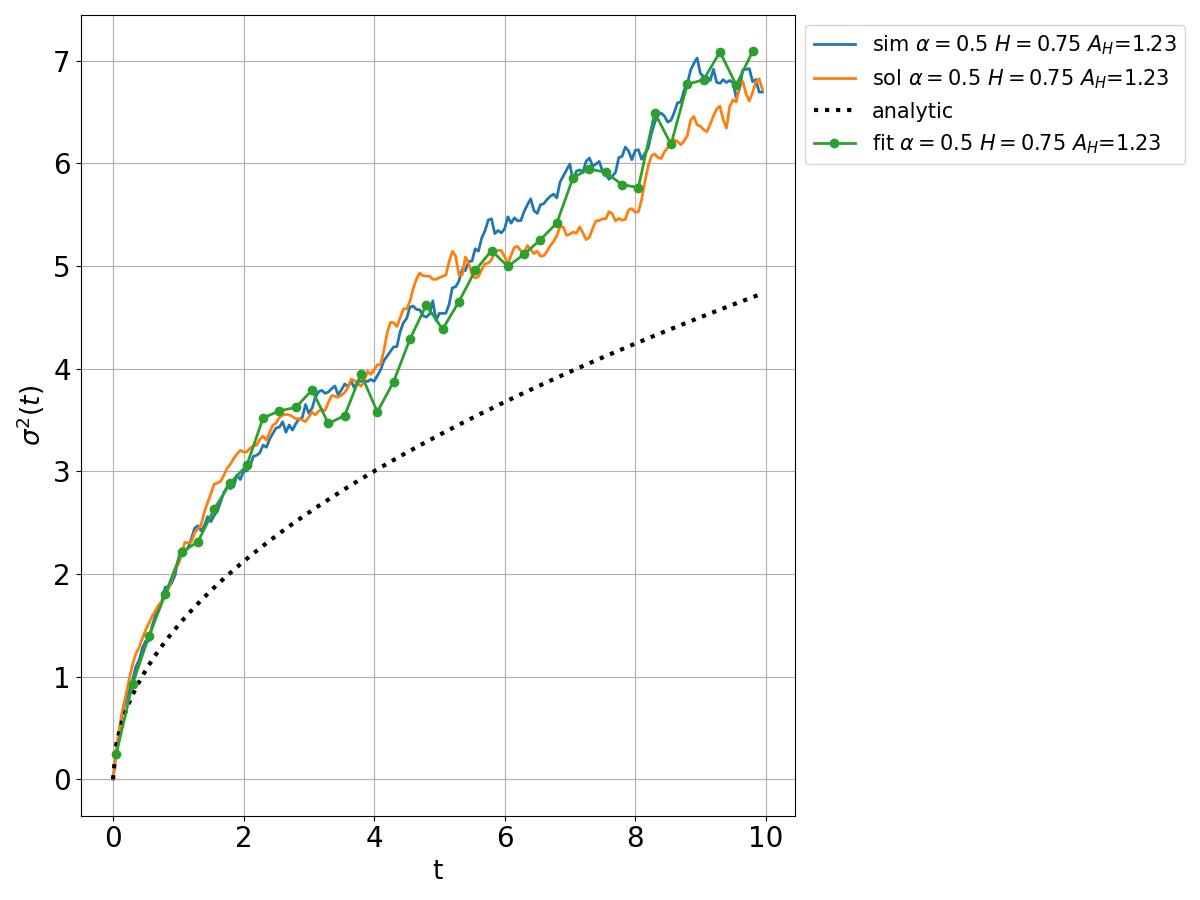
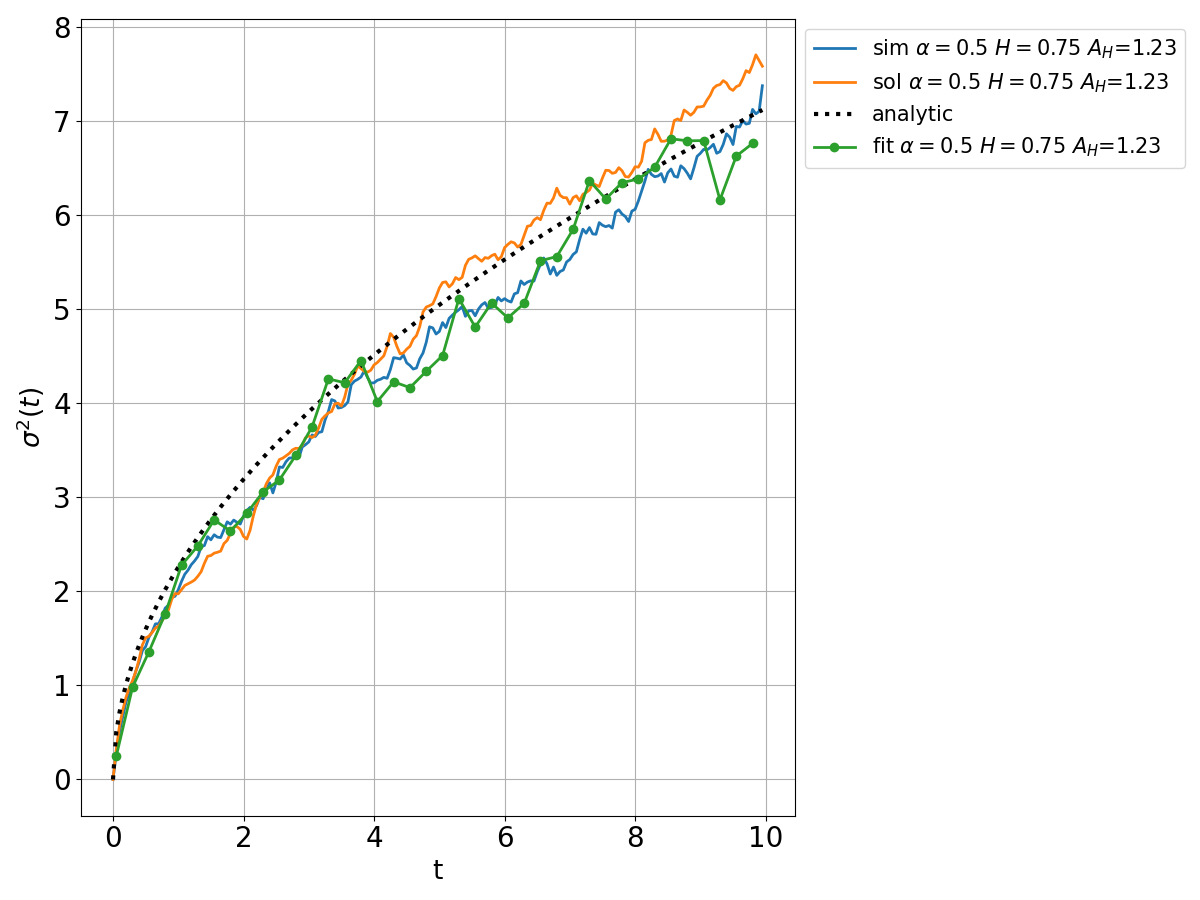
added term to active x direction on the msd, still not working.

diff --git a/src/world.py b/src/world.py
@@ -36,7 +36,7 @@ class Base:
         # Noise Amplitude
         if self.alpha == (2-2*H):
             # print('running')
-            self.A_H = 1#/np.sqrt(H*(2*H-1)*gamma(2*H-1))
+            self.A_H = 1#/np.sqrt(H*gamma(2*H))
             # self.A_H = 1#/np.sqrt(H*(2*H-1)*gamma(2*H-1))
             # print('scaling')
         else: 
@@ -44,10 +44,10 @@ class Base:
         # else:
         #     self.A_H = 1/(np.sqrt(2*H)*gamma(H+1/2))
 
-        # Generalized diffusion coefficient (?) 
+        # Generalized diffusion coefficient 
         nominator = self.H*gamma(2*self.H)
         denominator = (self.alpha+self.H-1)*gamma(self.alpha)*gamma(self.alpha+2*self.H-1)
-        self.D_H = nominator/denominator
+        self.D_H = (self.A_H**2)*nominator/denominator
 
     # --------- Noise Generator --------- #
     def make_B_H(self, method='daviesharte'):
@@ -228,7 +228,7 @@ class xDirection(Base):
         gamma1 = gammainc(1/(2*eta), D_H*t**(2*eta)/2)
         gamma2 = gammainc(1/  (eta), D_H*t**(2*eta)/2)
     
-        self.msd_an =  coeff*( gamma1*((D_H/2)**(1/eta))*t - gamma2  )
+        self.msd_an =  coeff*( gamma1*((D_H/2)**(1/eta))*t - gamma2  ) + t**self.alpha
 
     def propagator(self, time_index):
         """

diff --git a/scripts/plot_phi.py b/scripts/plot_phi.py
@@ -6,8 +6,8 @@ import plotting
 import utilities
 
 mode = 'phi'
-alphas = [1.]  
-Hs = [0.8, 0.5, 0.3]            # only used if alpha==1
+alphas = [0.5]  
+Hs = [0.9, 0.8, 0.6]            # only used if alpha==1
 realizations = 1000
 Tf = 10
 h = 0.05
@@ -22,6 +22,7 @@ for alpha in alphas:
 
         env = utilities.read_env(mode, alpha, H, realizations, Tf, h, sets)
         A_H.append(round(env.A_H, 2))
+        # env.D_H = env.D_H*(env.A_H**2)
 
         # Plot MSD
         env.compute_msd()

diff --git a/src/plotting.py b/src/plotting.py
@@ -156,7 +156,6 @@ def plot_moment(ax, env, variable, mom_type, label_an = True):
     ax.legend(fontsize = legend_size, bbox_to_anchor=(1, 1))
 
 
-
 def plot_pdf(ax, env, mode, time):
     
     trajectories_points = env.trajectories[:, time]
